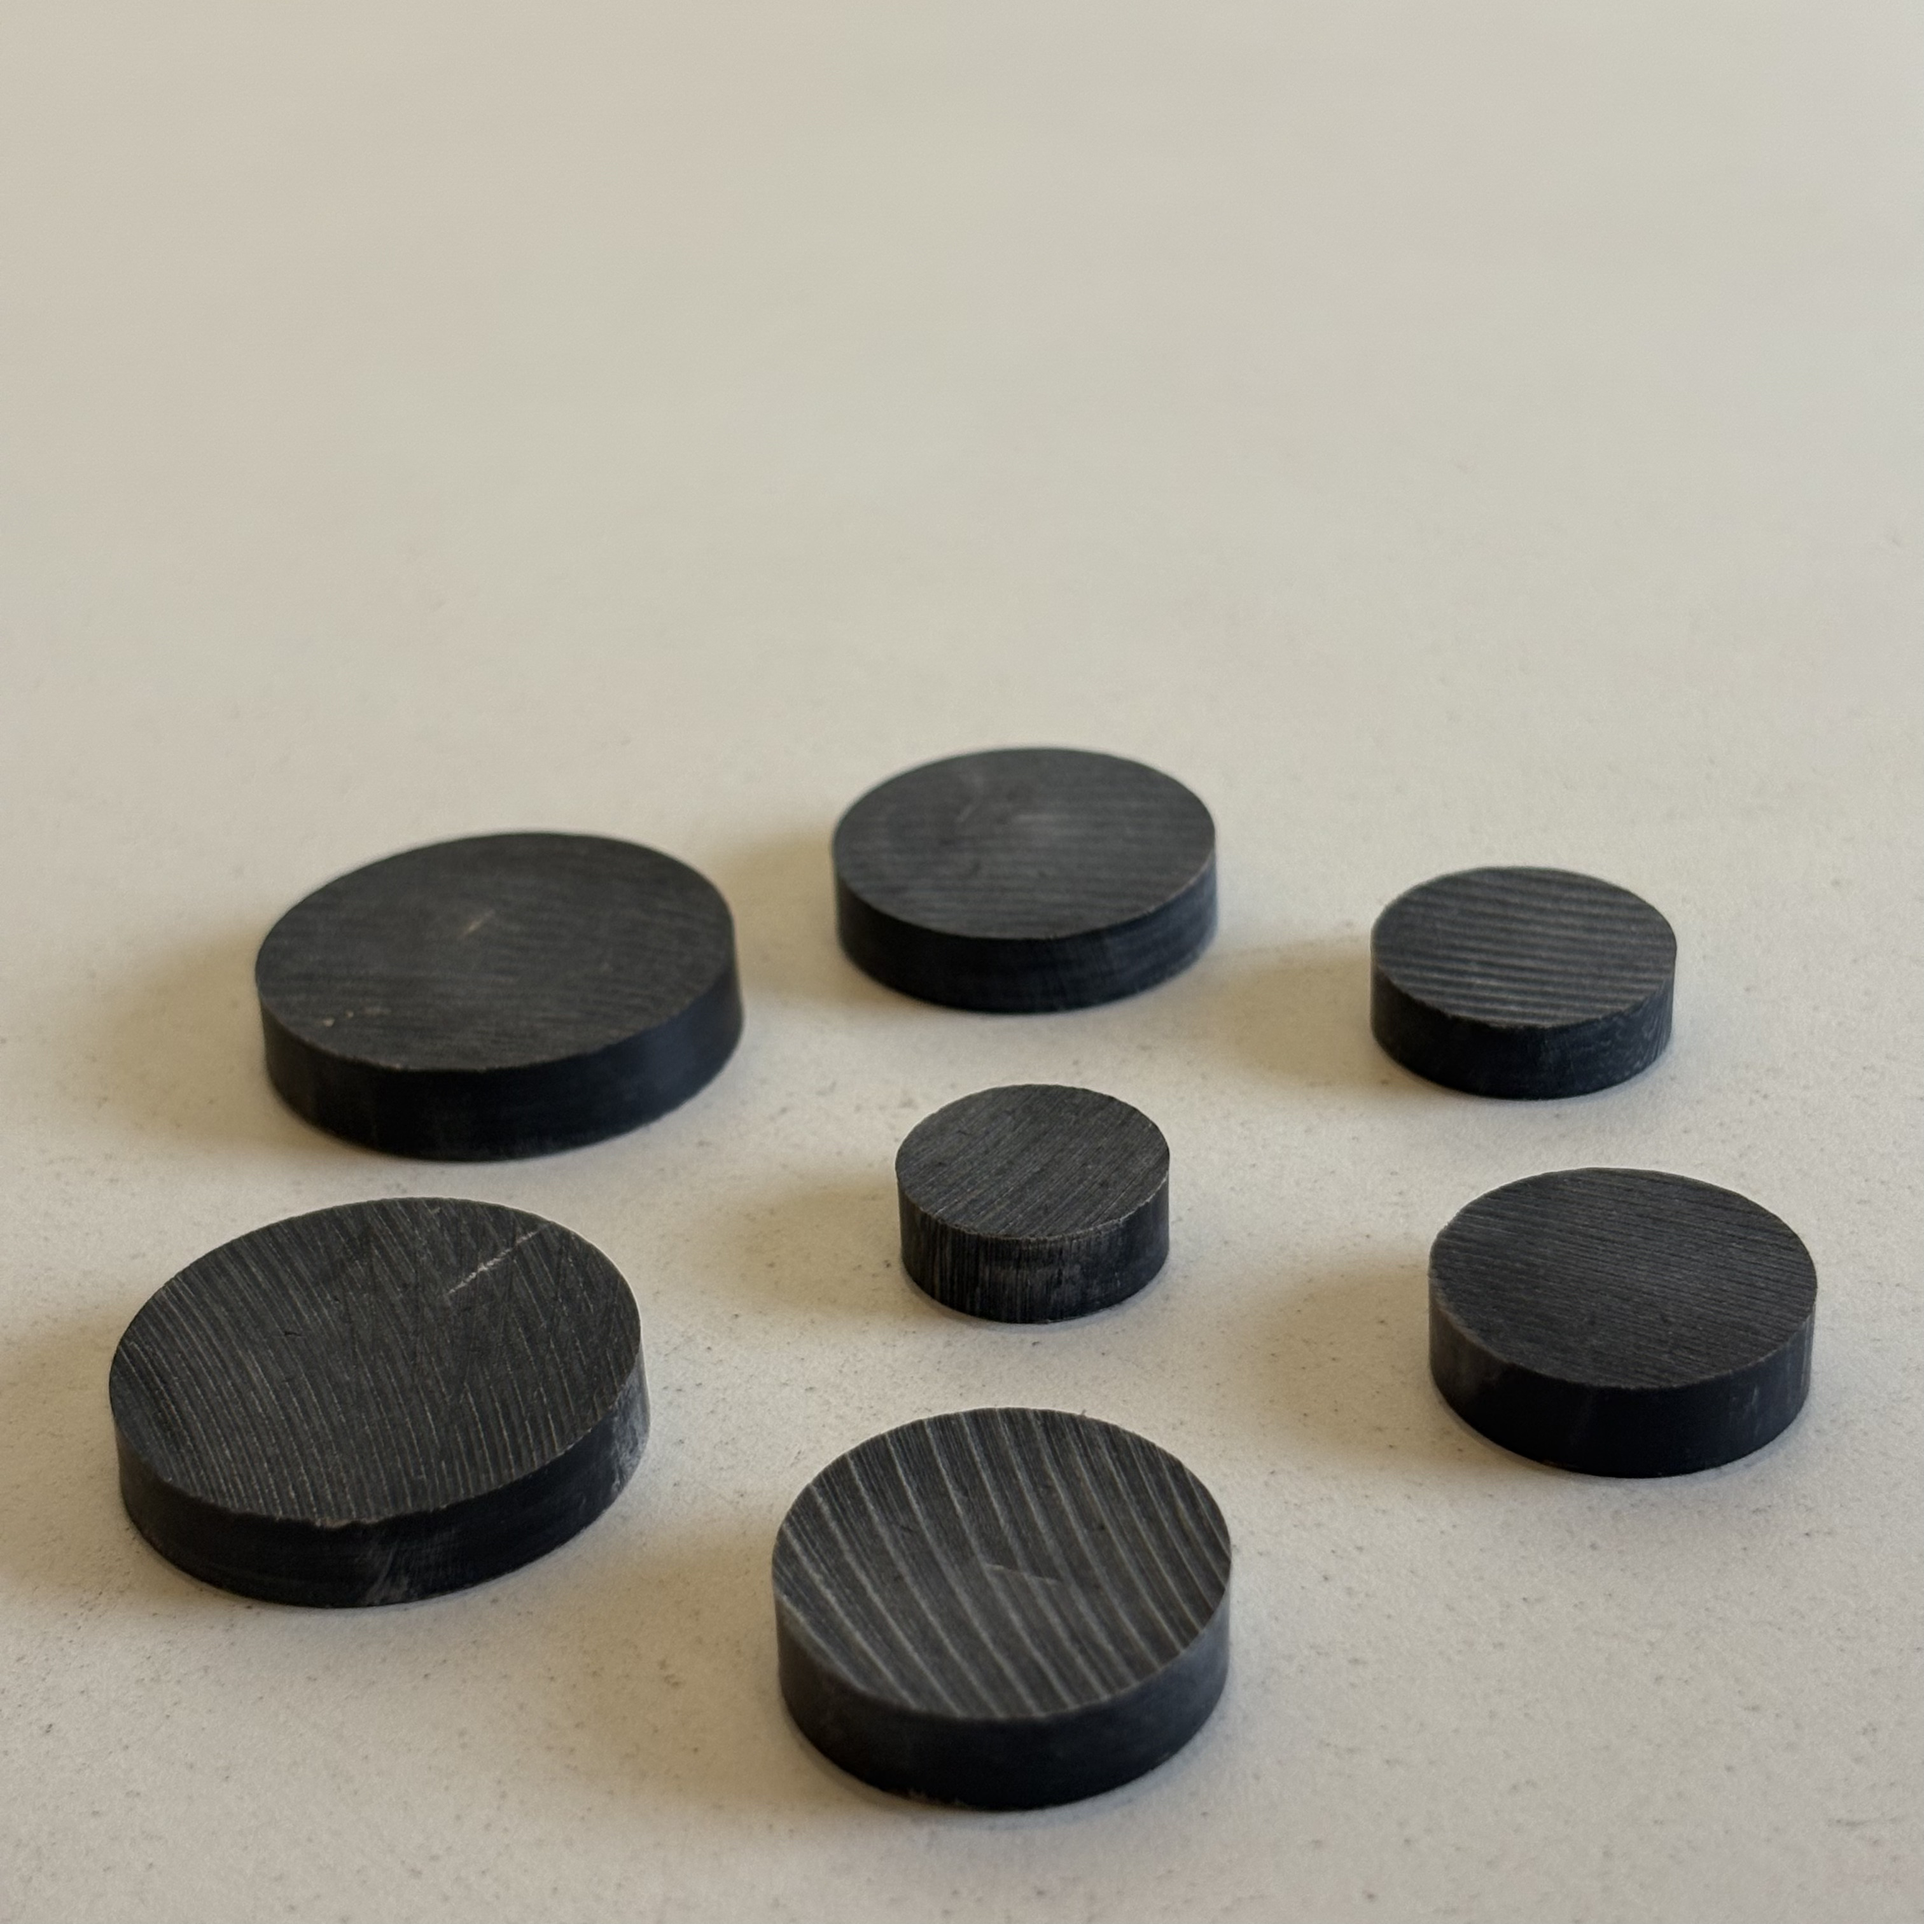
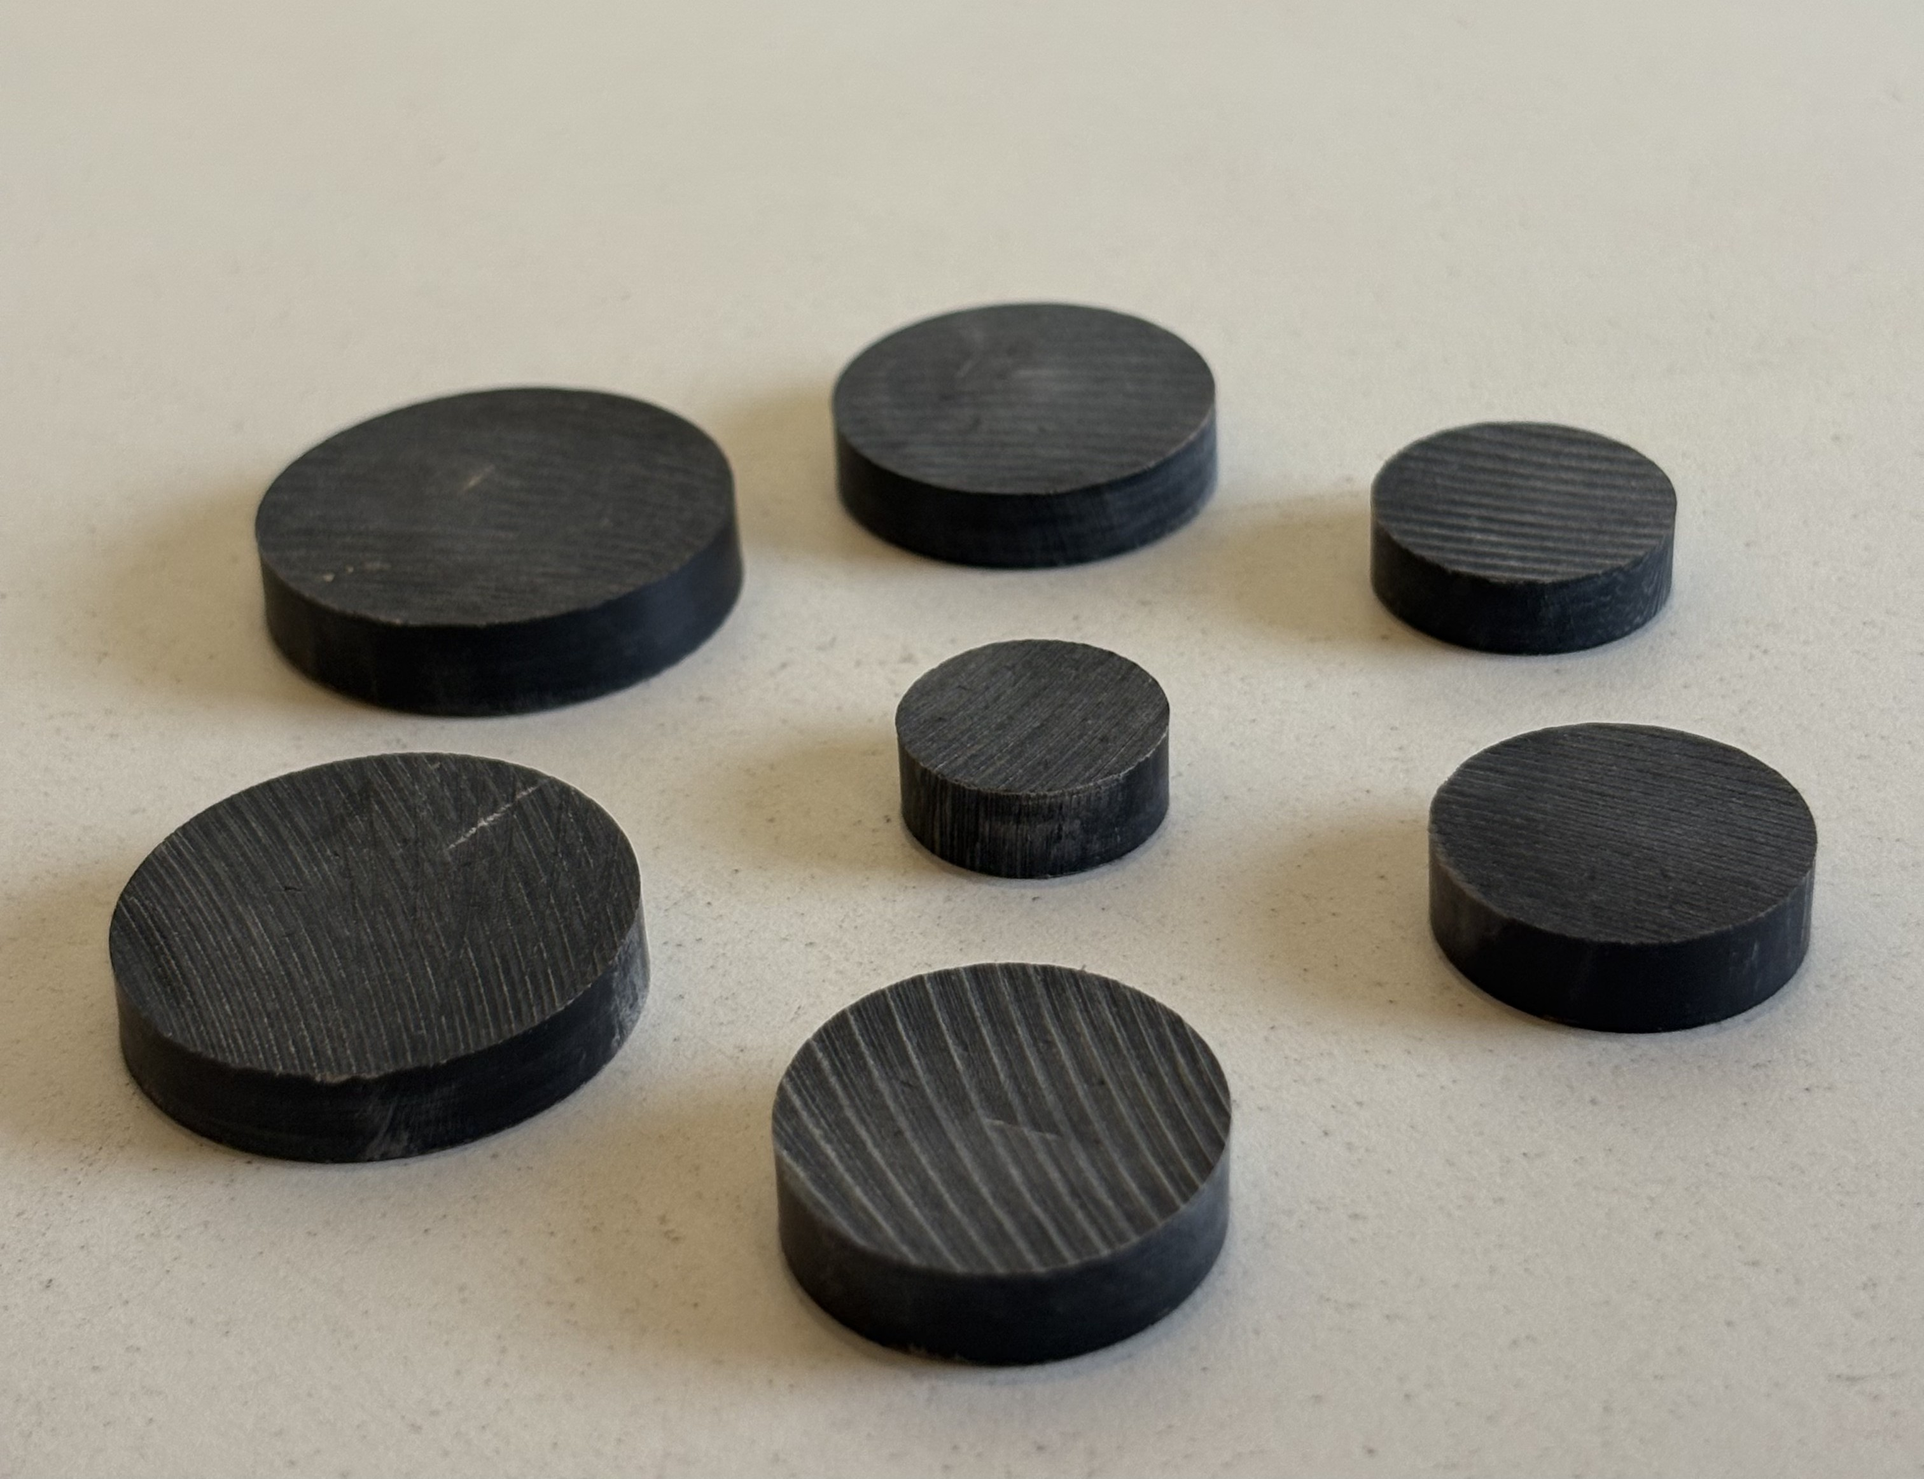
updated image

diff --git a/src/constants/Data.js b/src/constants/Data.js
@@ -1,7 +1,7 @@
 // constants/Data.js
 
 import img1 from "../assets/test1.jpg";
-import img2 from "../assets/test2.webp";
+import img2 from "../assets/hornButtons/blk-btn.jpg";
 import comb from "../assets/images/homeProduct/comb.jpg";
 import jewelry from "../assets/images/homeProduct/jewelry.jpg";
 import plate from "../assets/images/homeProduct/plate.jpg";
